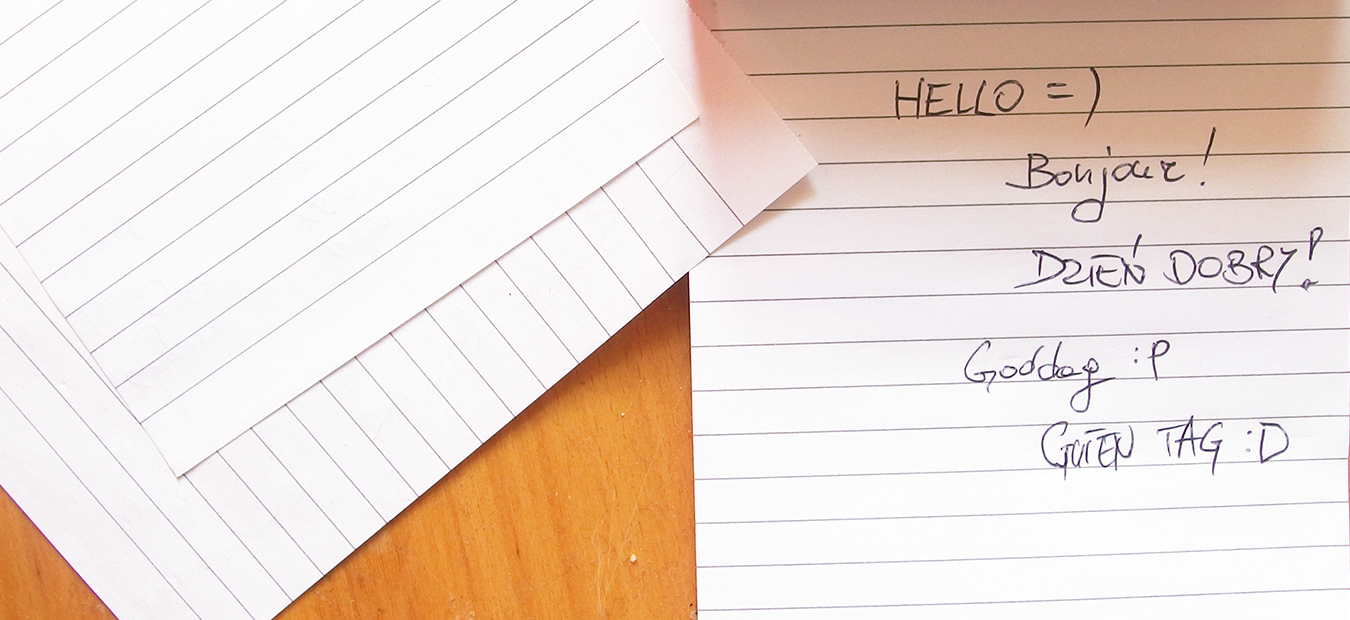
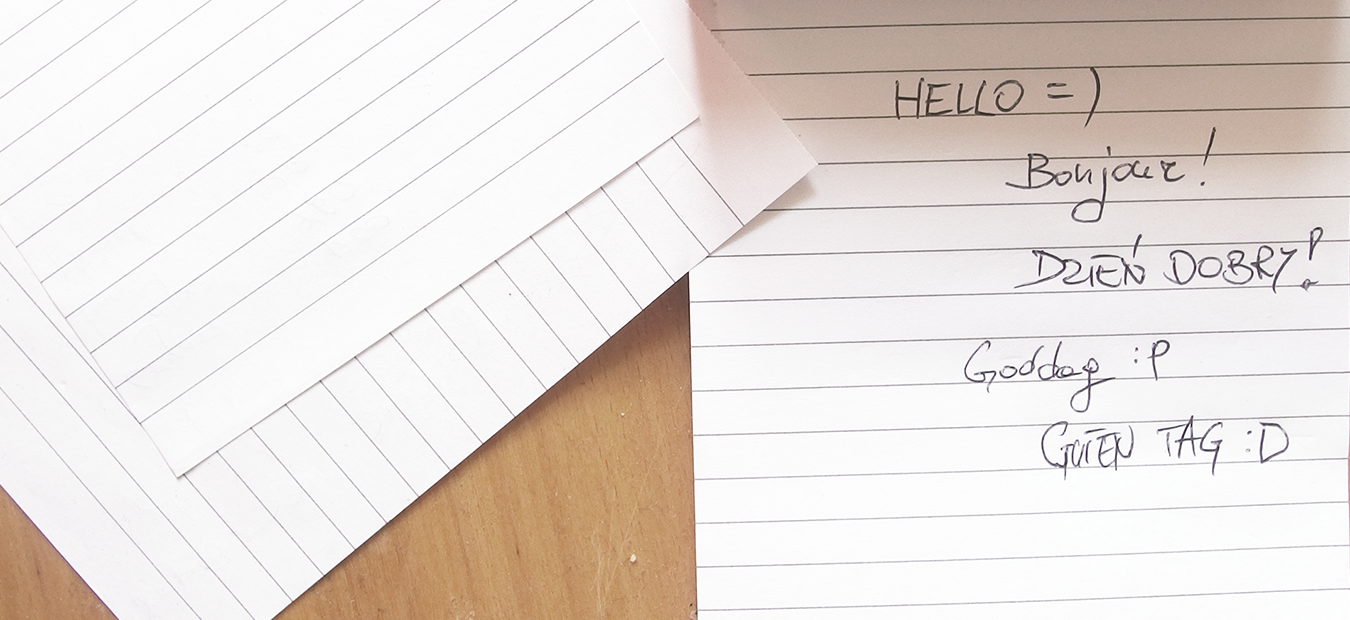
edycja grafiki SKILLS

diff --git a/skills.html b/skills.html
@@ -60,7 +60,7 @@
 
     <!-- TEKST NA OBRAZKU-->
   
-    <header id="top" class="intro-header" style="background-image: url('images/skillsback.jpg')">
+    <header id="top" class="intro-header" style="background-image: url('images/skillsbacklight.jpg')">
         <div class="container">
             <div class="row">
                 <div class="col-md-12">
@@ -158,7 +158,7 @@
 				<!---------------------------------------------------------------------HARD SKILLS END--------------------------------------------------------------------->
 				
 				<!---------------------------------------------------------------------SEKCJA JĘZYKOWA--------------------------------------------------------------------->
-				<div class="lang" style="background-image: url('images/lang1350.png')" >
+				<div class="lang" style="background-image: url('images/langblue.png')" >
 					<div class="container">
 						<div class="row">
 							
